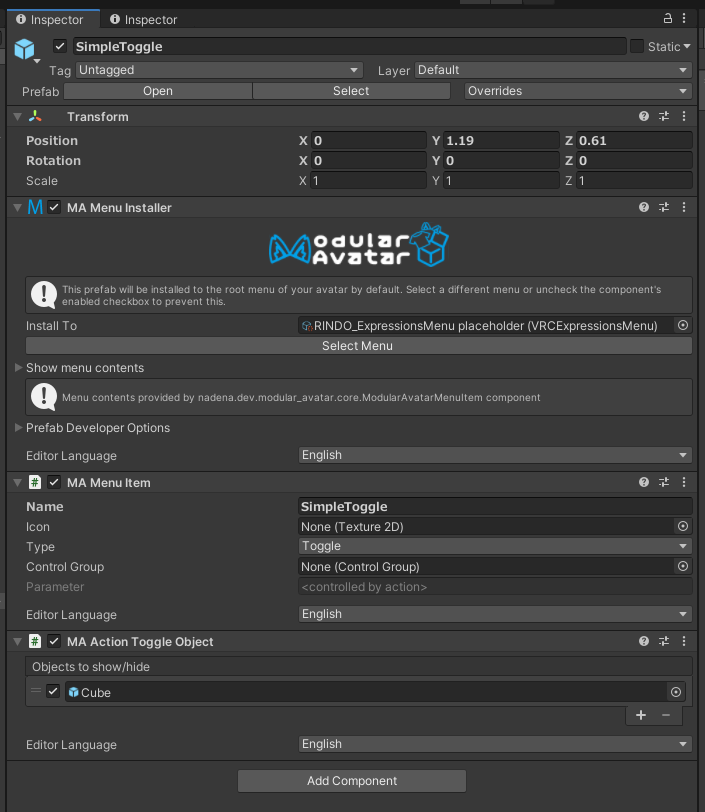
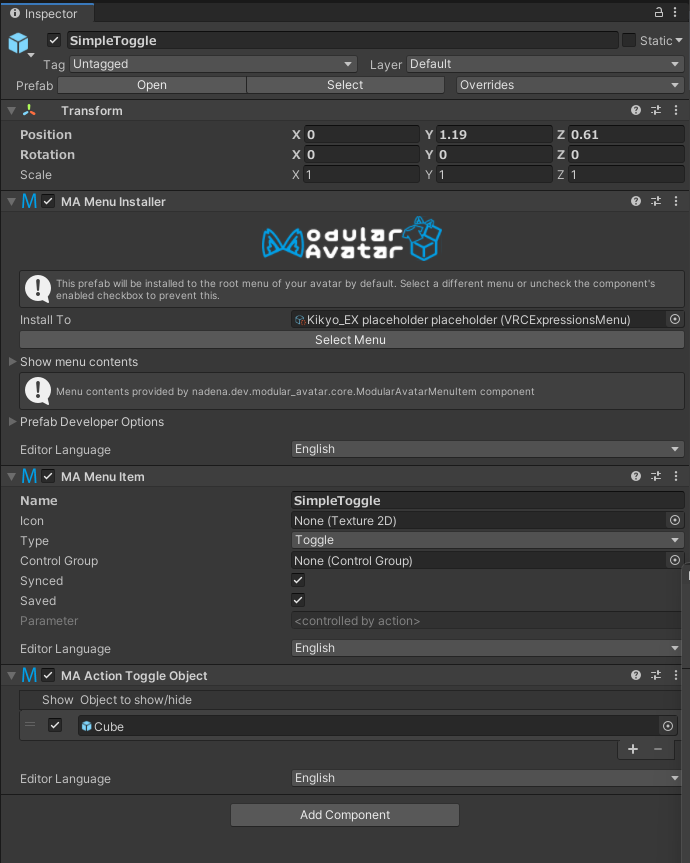
docs: update tutorial

Changed region(s): [[0.0, 0.0, 1.0, 1.0], [0.913, 0.2155, 1.0, 0.2771]]

diff --git a/docs/docs/tutorials/menu/index.md b/docs/docs/tutorials/menu/index.md
@@ -70,25 +70,33 @@ In some cases you might want more complex toggles. This can be done by adding a 
 
 ![Sample control group object](control-group.png)
 
-Here we have a clothing menu which has a control group on it. The control group has no settings on it; it's just there to tie together the menu items. Here's what those look like:
+Here we have a clothing menu which has a control group on it. The main job of the control group is to to tie together the menu items, so that only one can be selected at a time. Here's what those look like:
 
 ![Clothing menu item: Default](clothes-0.png)
 ![Clothing menu item: Blanchir](clothes-1.png)
 ![Clothing menu item: SailorOnepiece](clothes-2.png)
 
-As you can see, each of these menu items has a "Toggle" type, and a "MA Action Toggle Object" component. The "MA Action Toggle Object" component has a checkbox next to each object, which indicates whether that object should be shown when the menu item is selected.
-What's different here is that we've specified the control group object under "Control Group", and on the default object, we selected "Is Group Default".
-
+As you can see, each of these menu items has a "Toggle" type, and a "MA Action Toggle Object" component.
+What's different here is that we've specified the control group object under "Control Group".
 When you specify a control group, only one menu item out of the control group can be selected at a time. This essentially means they'll be bound to the same parameter.
 
-You can select one item out of your control group to be the default item. When you do this, the default item will be selected initially, and anything that it selects will be reversed when you select a different item. In this example, because we selected the "Kikyo_Blouse", "Kikyo_Coat", and "Kikyo_Skirt" objects ON in the default item, these will be toggled off when we select Blanchir or SailorOnepiece. You can override this on the individual other items by adding that item in explicitly.
+The control group can be placed on any object, provided that you don't have a Menu Item on that same game object. Feel
+free to put it wherever it makes sense in your hierarchy.
+
+We've also set an additional Action Toggle Object on the control group itself. These toggles will be applied by default -
+this lets us turn off the default Kikyo outfit in all of our additional outfits that we're adding.
+
+You can select one item out of your control group to be the default item on the control group. If you select the "(none
+selected)" option, then it'll be possible to turn off all toggles, selecting the control group defaults.
+
+Finally, you can set on the control group whether the parameter is saved and/or synced.
 
 ### Limitations
 
 This feature is in preview and has a number of limitations you should be aware of:
 
 1. Objects can only be controlled by one control group or ungrouped toggle at this time.
-2. Currently, these toggles will not be saved. This means that if you change avatars or move between worlds, your toggles will not be saved.
+2. Only GameObjects can be toggled; there is not yet support for toggling individual components, blend shapes, etc.
 3. A toggle cannot both control actions and traditional animators at the same time.
 
 These limitations will be improved on in future releases.
